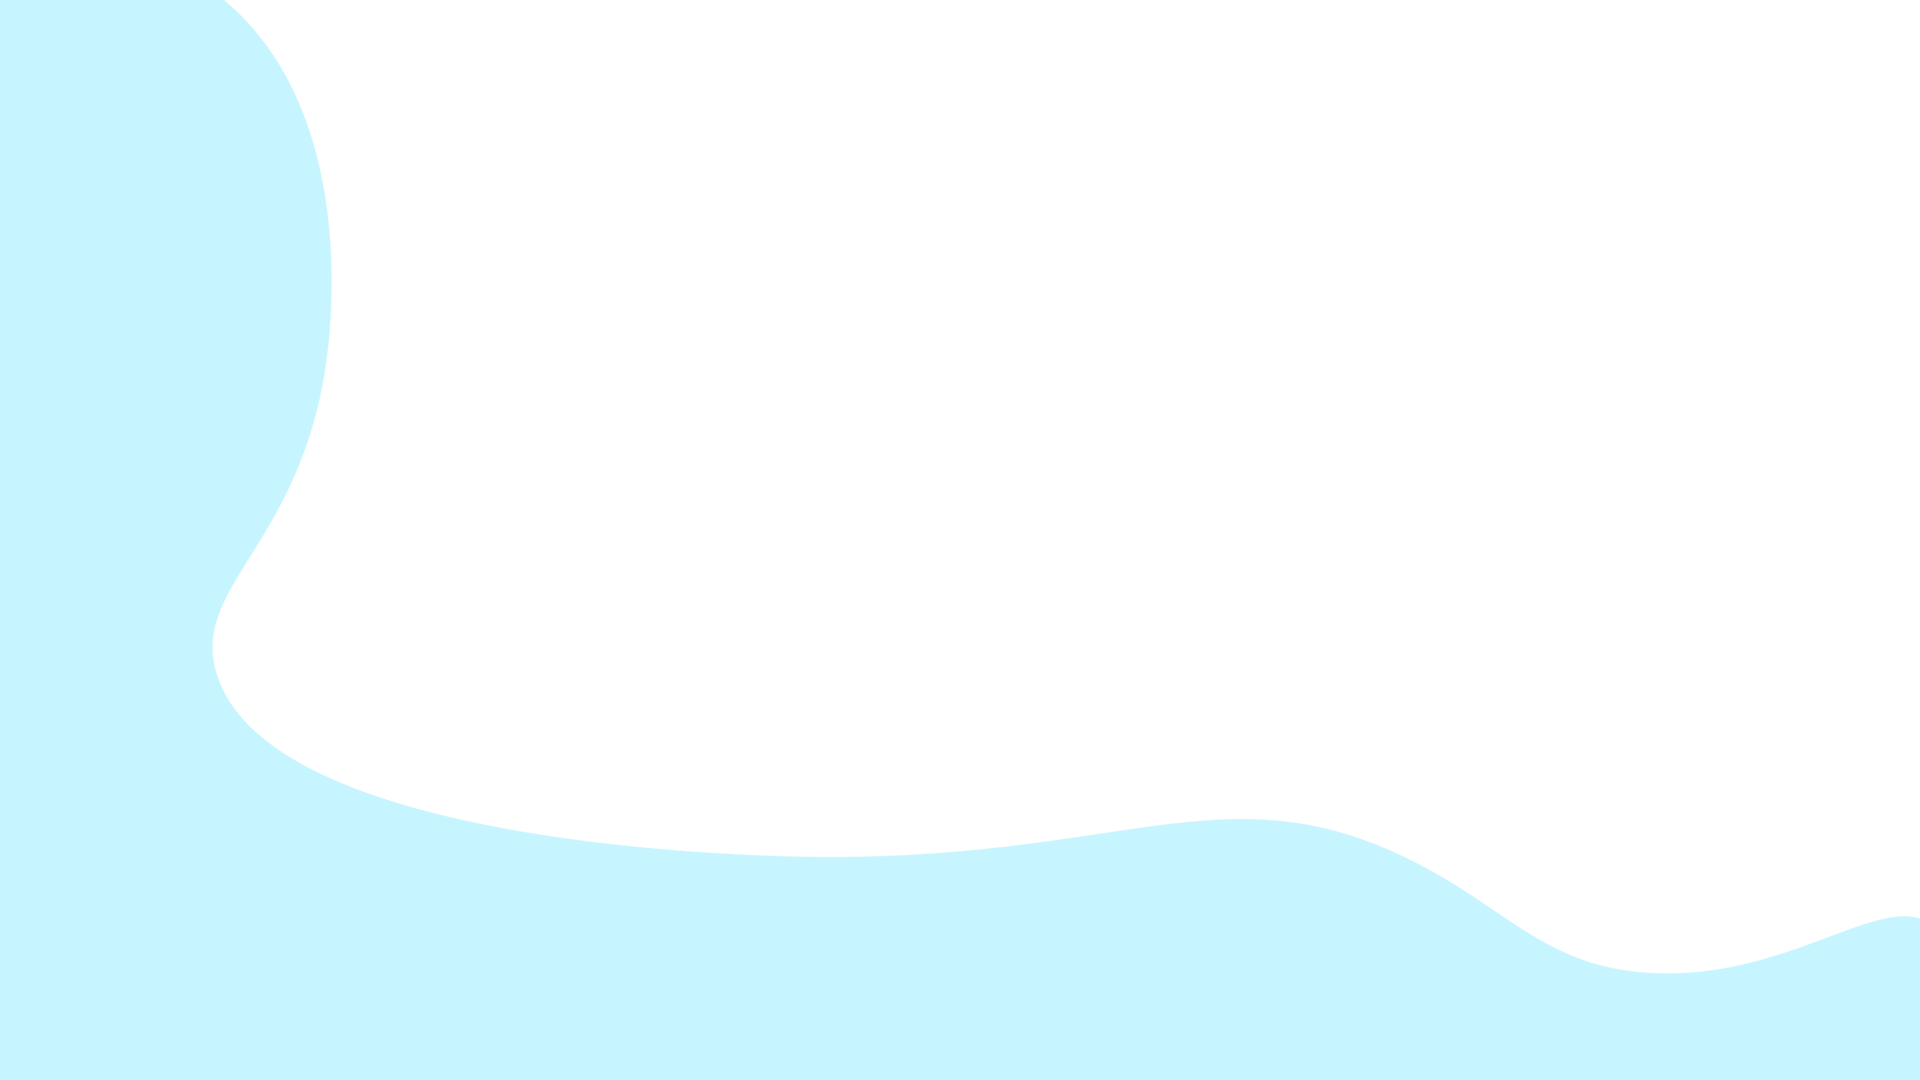
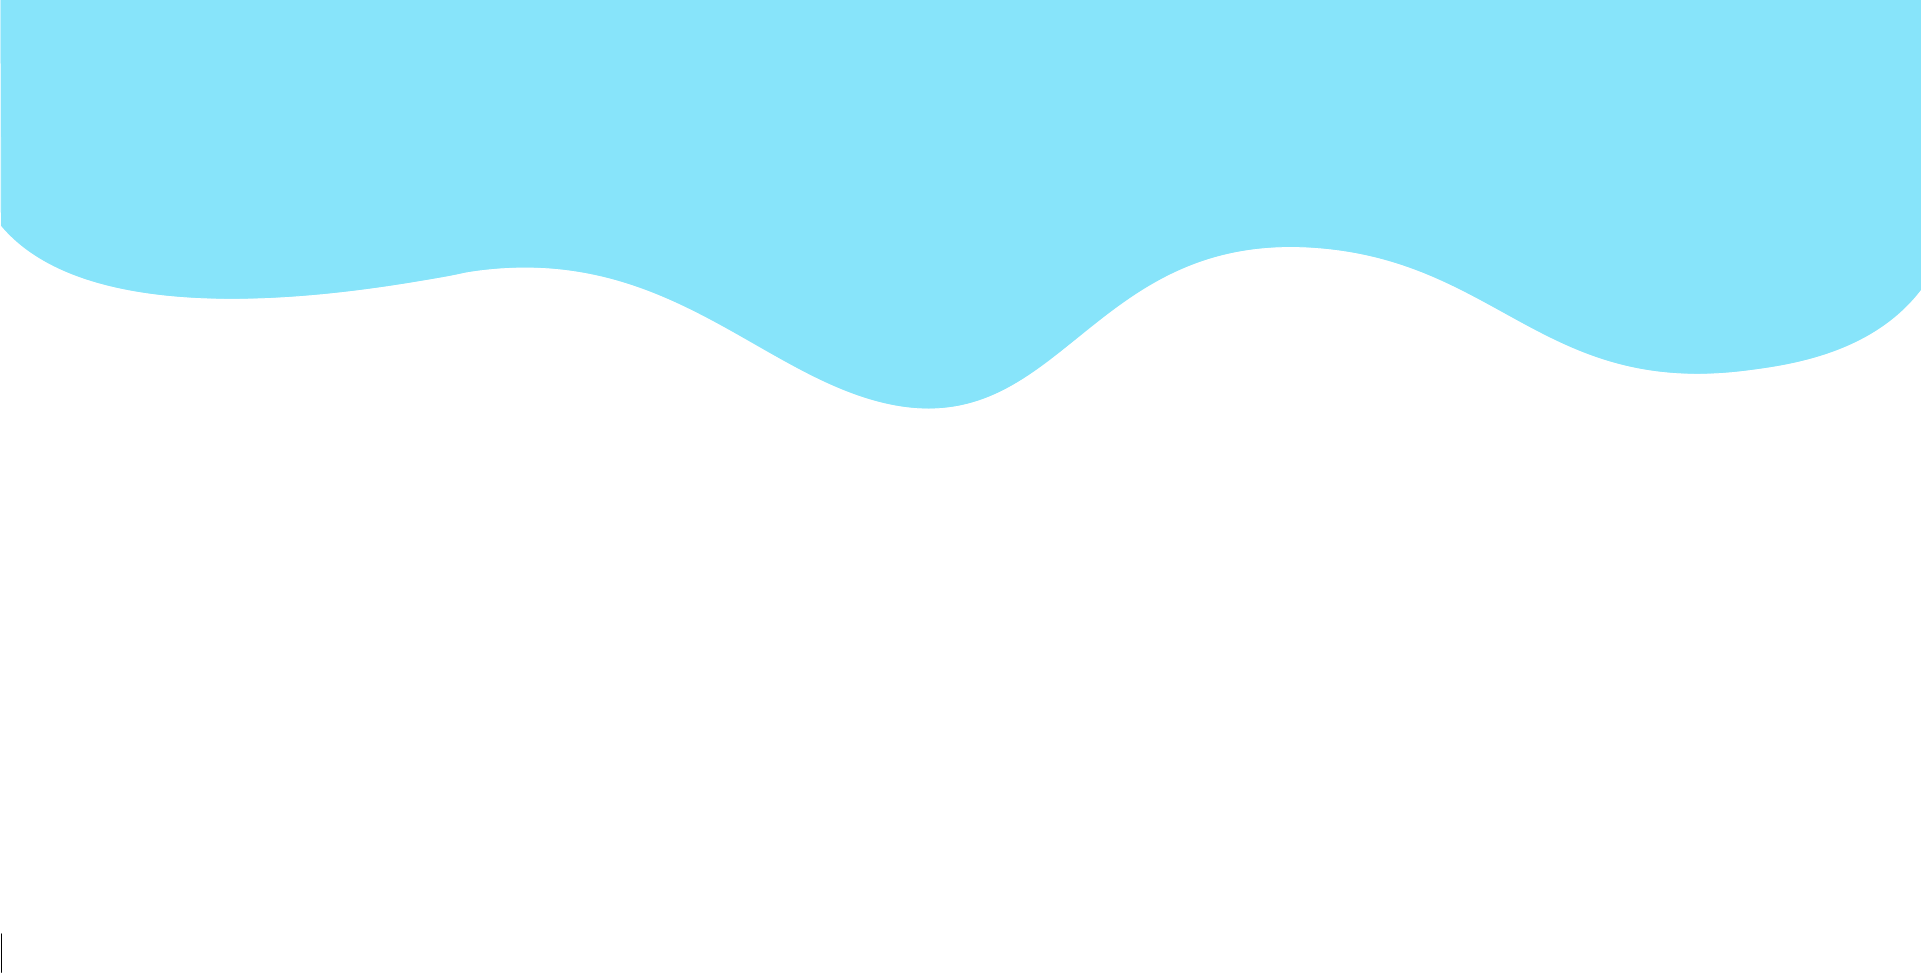
++

diff --git a/Customize-proyecto/src/app/home/home.component.css b/Customize-proyecto/src/app/home/home.component.css
@@ -100,13 +100,14 @@ a{
 }
 
 #vende{
-    position: relative;
-    min-height: 100vh;
-    background-image: url("/assets/img/decos.png");
+    background-image: url("/assets/img/decos5.png");
+    background-repeat: no-repeat;
+    background-position: bottom;
 }
 
 #compra{
-    /*background-image: url("../img/decos3.png");*/
+    background-position: top;
+    background-image: url("/assets/img/decos3.png");
 }
 
 #acercaDe{
